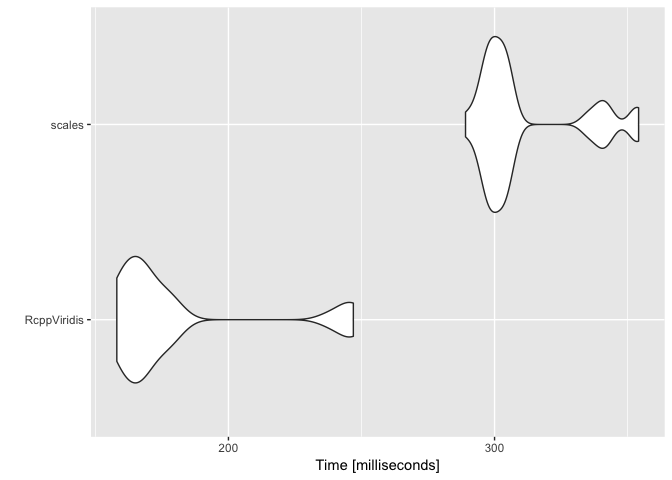
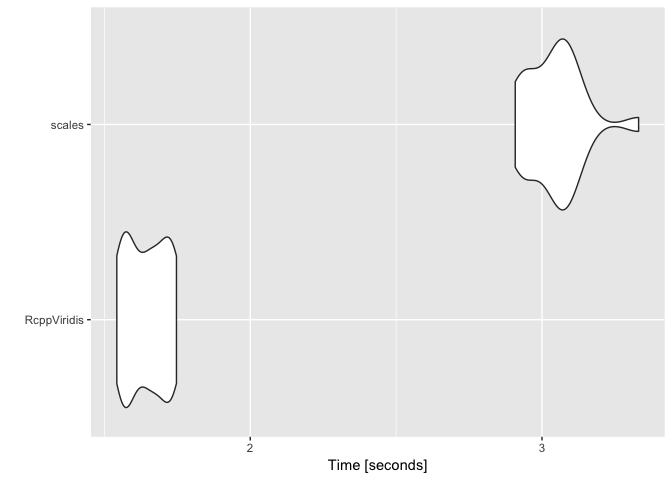
readme

diff --git a/README.md b/README.md
@@ -191,11 +191,27 @@ barplot(height = df$a, col = df$col, border = NA, space = 0)
 
 <img src="man/figures/README-unnamed-chunk-9-1.png" width="100%" height="200" />
 
+## Some of my plotting functions don’t support alpha, can I exclude it?
+
+Yep. Set `include_alpha = FALSE`
+
+``` r
+colour_values(1:5, include_alpha = F)
+# [1] "#440154" "#3B528B" "#21908C" "#5DC963" "#FDE725"
+colour_values_rgb(1:5, include_alpha = F)
+#      [,1] [,2] [,3]
+# [1,]   68    1   84
+# [2,]   59   82  139
+# [3,]   33  144  140
+# [4,]   93  201   99
+# [5,]  253  231   37
+```
+
 -----
 
 ### What’s the performance like?
 
-**1 million numeric values**
+**10 million numeric values**
 
 ``` r
 library(microbenchmark)
@@ -208,7 +224,7 @@ library(viridisLite)
 # 
 #     cividis, inferno, magma, plasma, viridis
 
-n <- 1e6
+n <- 1e7
 df <- data.frame(x = rnorm(n = n))
 
 m <- microbenchmark(
@@ -217,16 +233,16 @@ m <- microbenchmark(
   times = 25
 )
 m
-# Unit: milliseconds
+# Unit: seconds
 #         expr      min       lq     mean   median       uq      max neval
-#  RcppViridis 165.5523 166.6505 170.6419 167.5555 171.6719 214.9333    25
-#       scales 282.8674 291.0787 312.1267 296.5173 340.7493 383.6086    25
+#  RcppViridis 1.661483 1.683969 1.732483 1.734468 1.783560 1.805028    25
+#       scales 2.890473 2.958857 3.053268 3.053813 3.112339 3.431092    25
 
 autoplot(m)
 # Coordinate system already present. Adding new coordinate system, which will replace the existing one.
 ```
 
-<img src="man/figures/README-unnamed-chunk-10-1.png" width="100%" height="400" />
+<img src="man/figures/README-unnamed-chunk-11-1.png" width="100%" height="400" />
 
 **1 million characters (26 unique values)**
 
@@ -248,11 +264,11 @@ m <- microbenchmark(
 m
 # Unit: milliseconds
 #         expr      min       lq     mean   median       uq      max neval
-#  RcppViridis 168.7213 172.7548 185.4255 175.5587 182.5003 241.9229    25
-#       scales 287.0164 297.5966 314.1793 303.5411 307.7608 373.6255    25
+#  RcppViridis 172.3549 173.2797 177.5214 174.5469 175.5295 194.7020    25
+#       scales 321.4020 324.6705 342.6100 330.5668 351.0906 461.2703    25
 
 autoplot(m)
 # Coordinate system already present. Adding new coordinate system, which will replace the existing one.
 ```
 
-<img src="man/figures/README-unnamed-chunk-11-1.png" width="100%" height="400" />
+<img src="man/figures/README-unnamed-chunk-12-1.png" width="100%" height="400" />
